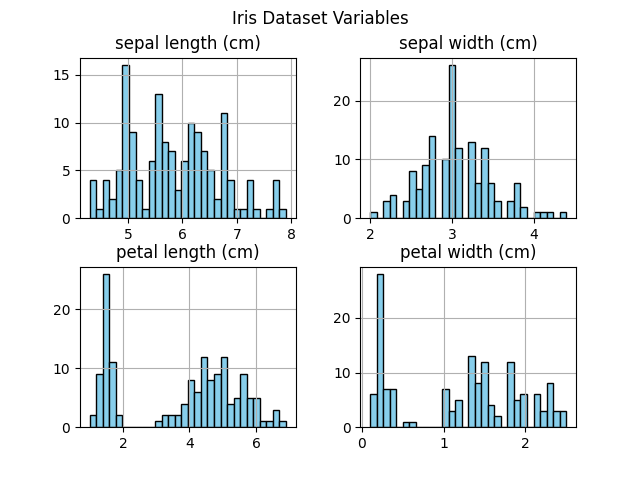
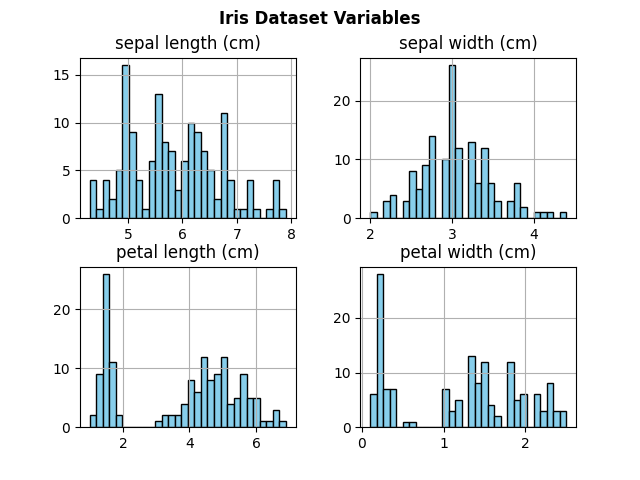
Added header image and improved readibility

Changed region(s): [[0.3438, 0.0, 0.6562, 0.0625]]

diff --git a/README.md b/README.md
@@ -52,6 +52,7 @@ To understand how the workbook has developped to date, please see below a timeli
 - 06/04/2025 - Fixed "data.csv" so that the Class column no longer includes the word Iris. Added in a heatmap showing how all the various External materials referenced: https://www.geeksforgeeks.org/exploratory-data-analysis-on-iris-dataset/ (how to generate a heatmap of the Iris dataset).
 - 07/04/2025 - Added text summary of each variable ("iris_variables_description.txt"). External material referenced: https://www.geeksforgeeks.org/python-pandas-dataframe-transpose/ (how to flip a datasets rows and columns).
 - 08/04/2025 - Added new histograms which break down analysis by species. External materials referenced: https://www.geeksforgeeks.org/exploratory-data-analysis-on-iris-dataset/ (generating an advanced histogram of the Iris dataset), https://gist.github.com/mwaskom/de44147ed2974457ad6372750bbe5751 (adjusting histplot to look like distplot). Copilot referenced, prompt "how to group multiple histograms into one png". Also, adjusted dataframe to improve its readability in the graphs (adding "(cm)" to variable headers and changing "class" to "species").
+- 09/04/2025 - Added in header image, tidied up section hears and improved the readability of the code in some sections.
 
 ## Getting help
 
